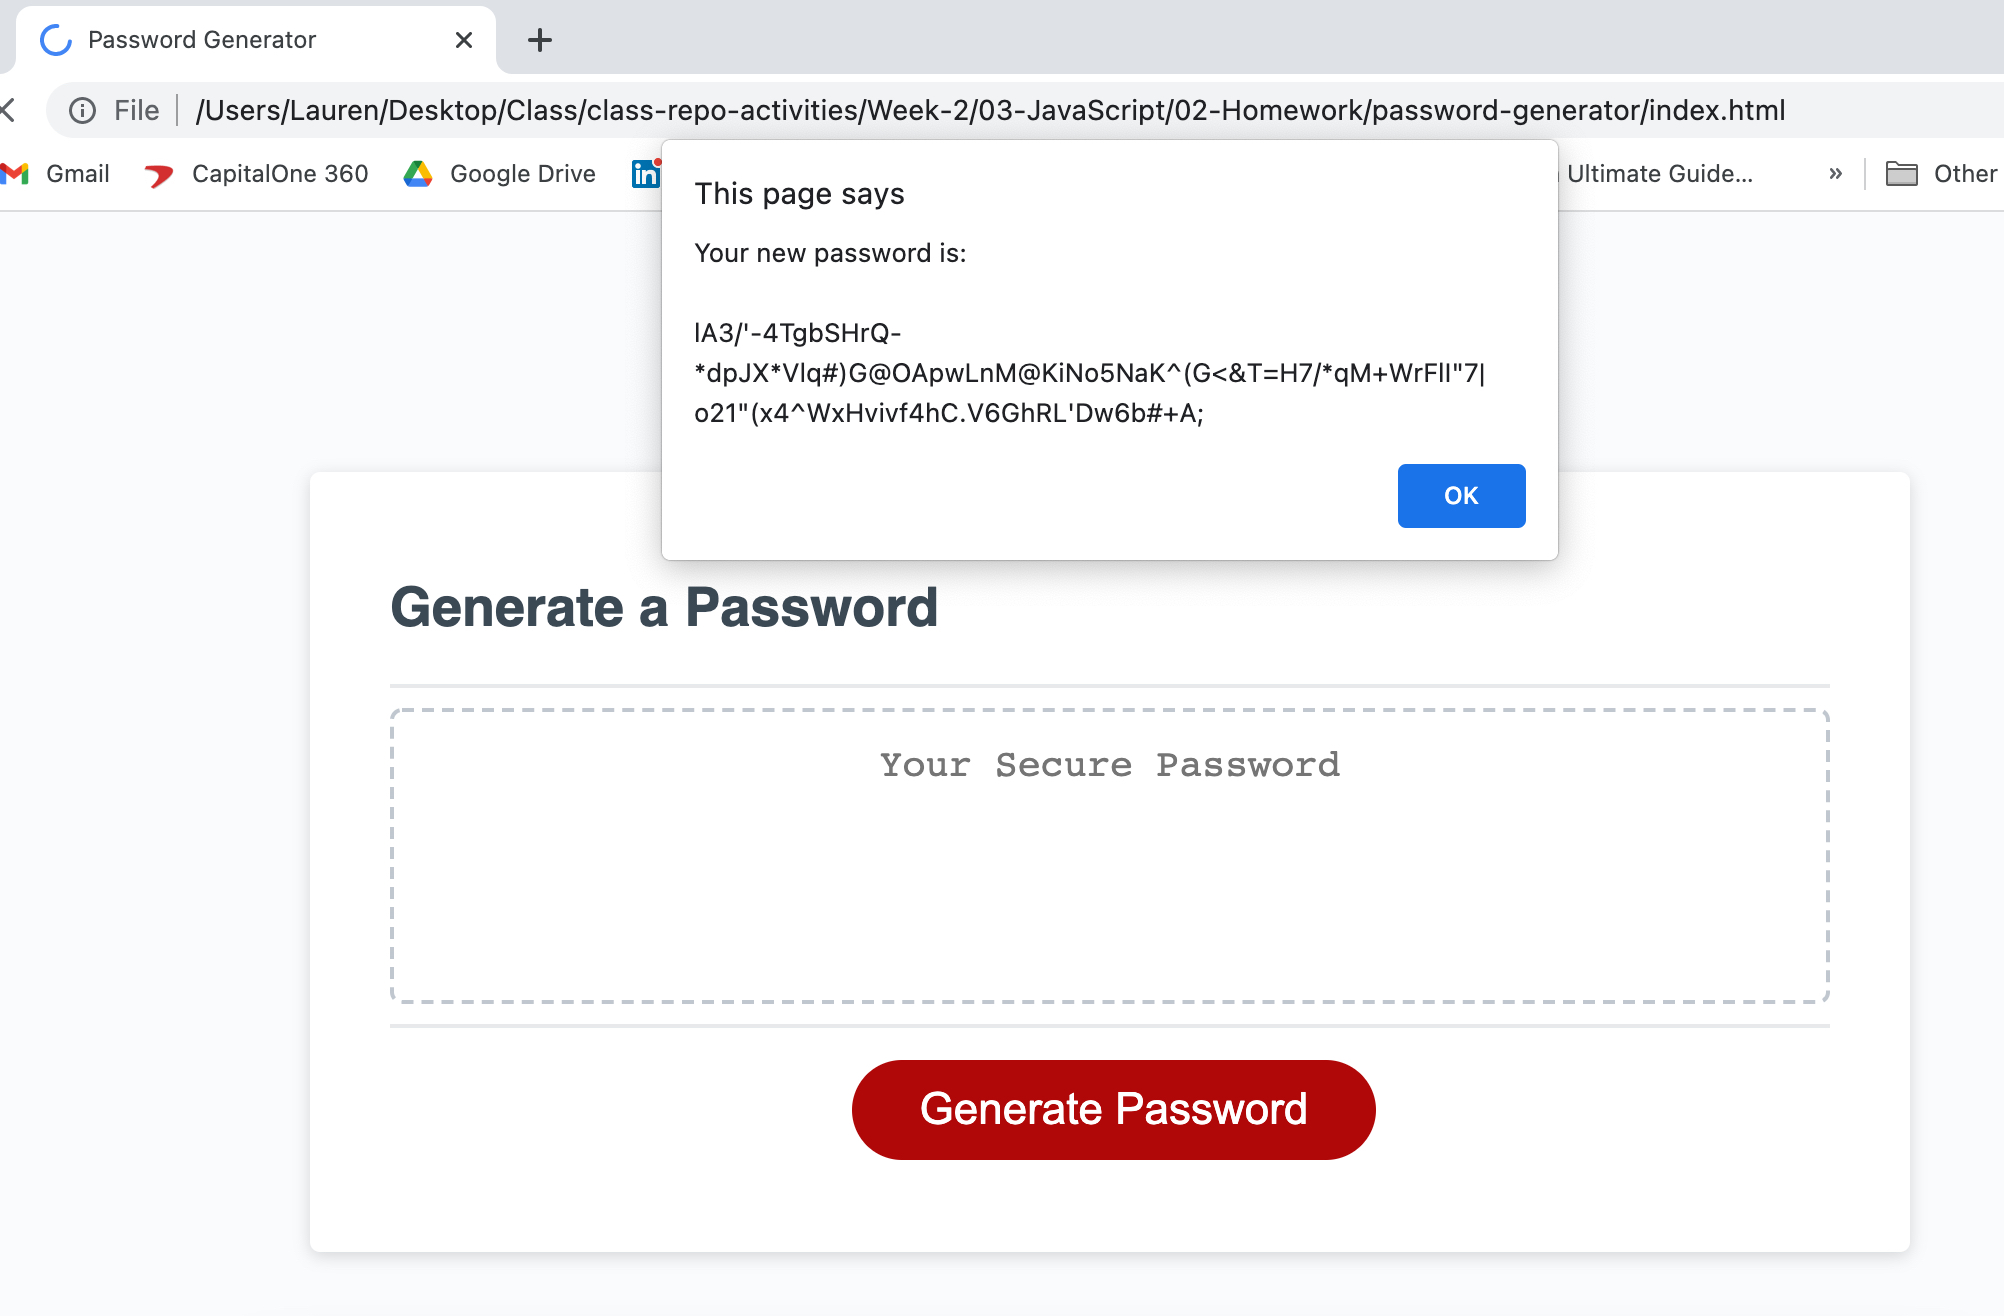
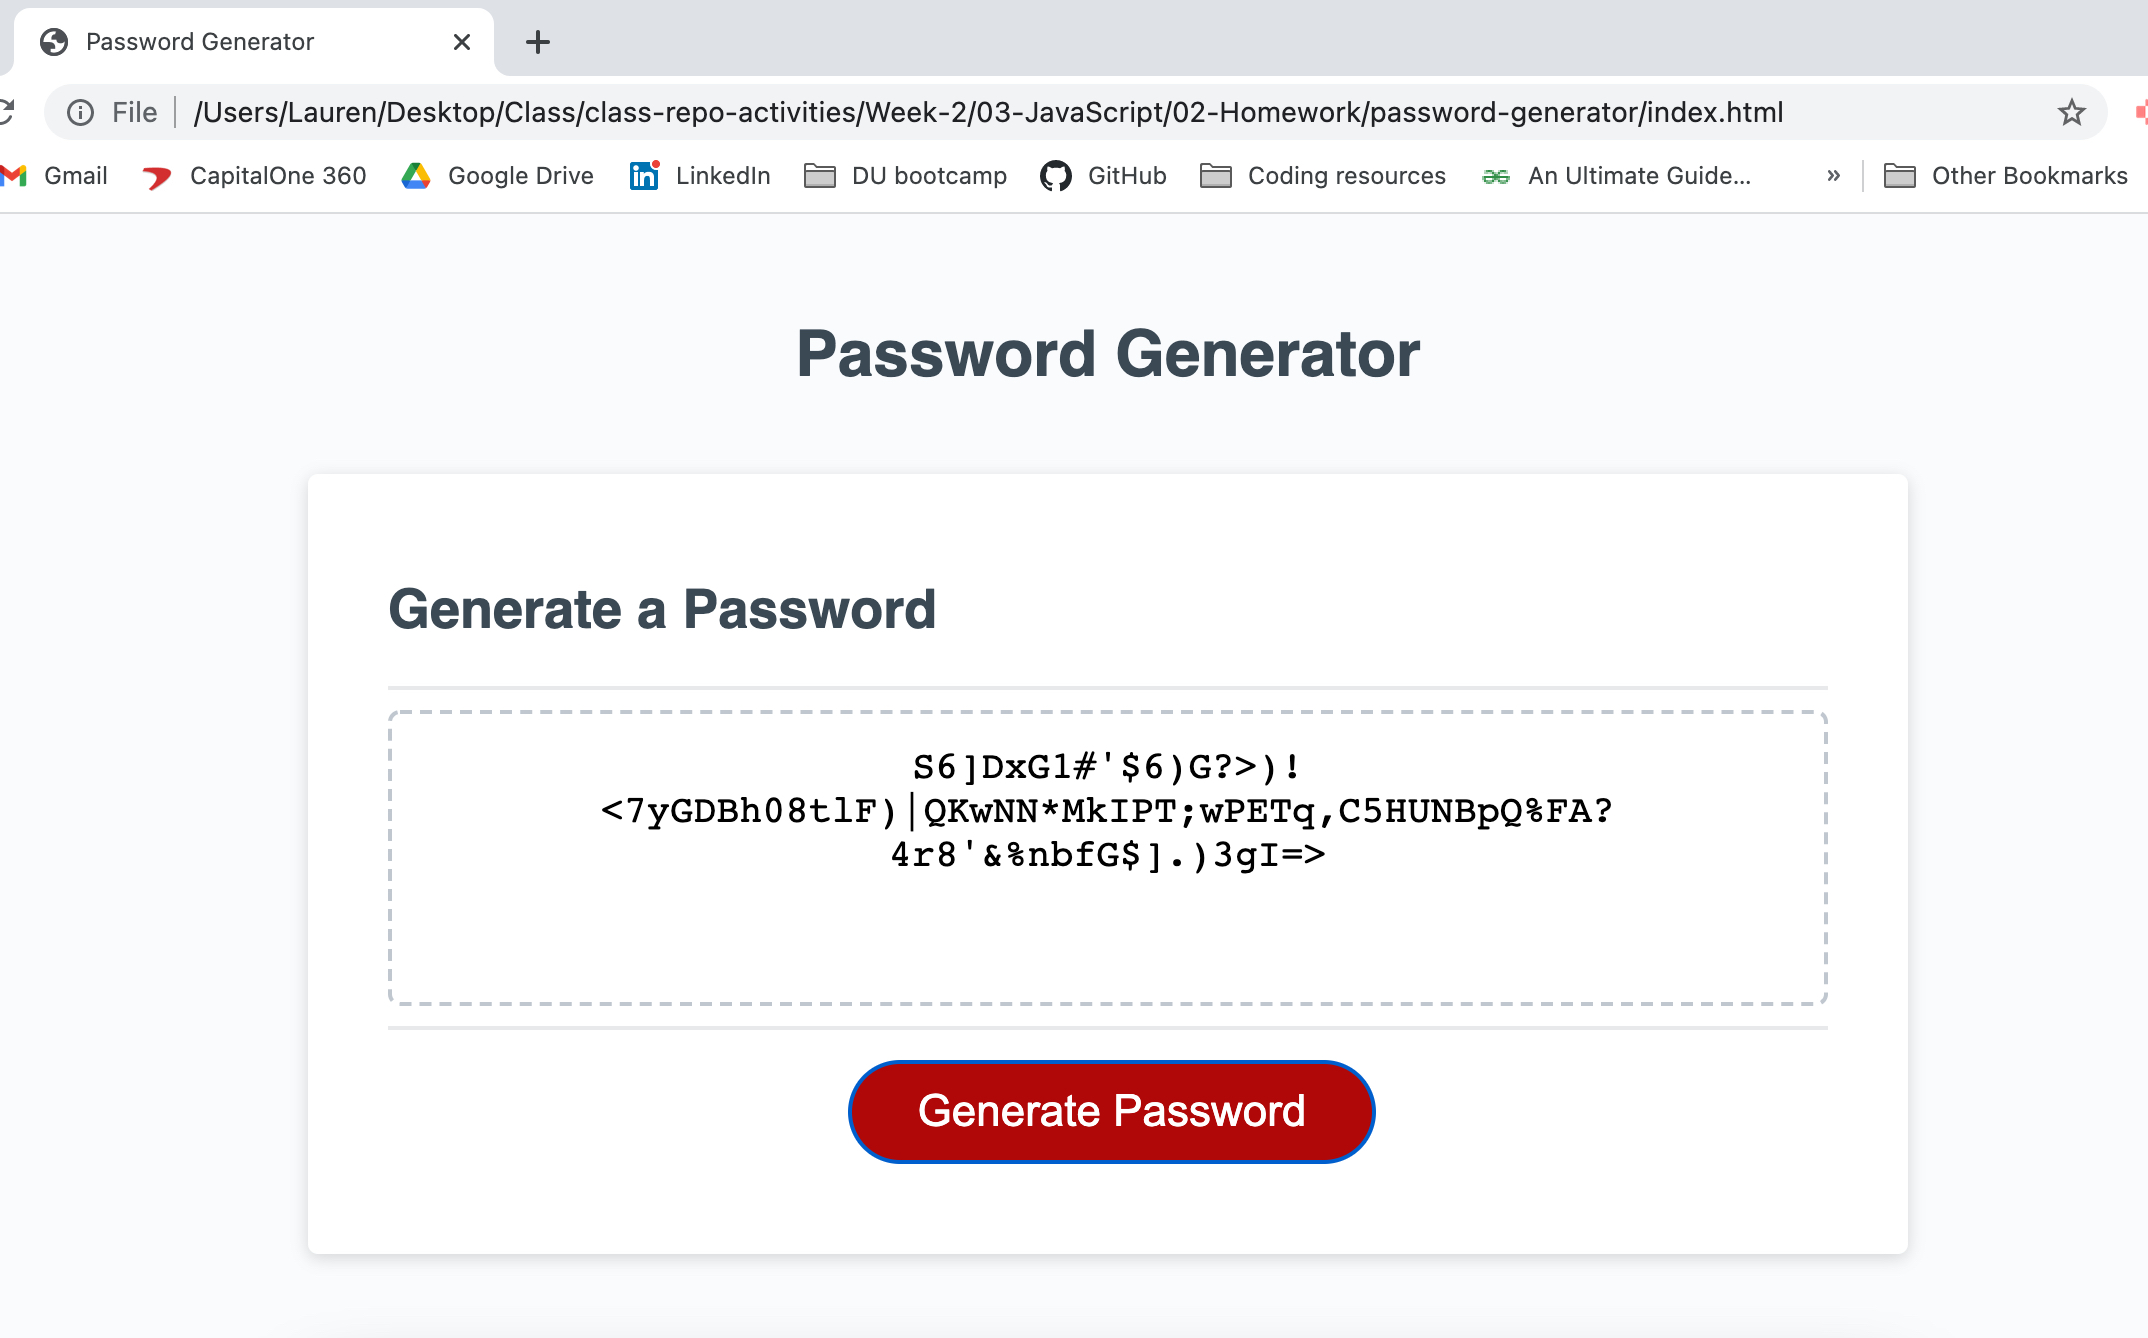
updating files to include JS edits (switching password generator to viewport instead of alert)

diff --git a/assets/script.js b/assets/script.js
@@ -9,11 +9,9 @@ function writePassword() {
   passwordText.value = password;
 }
 
-//User-generated values
-var pwLength;
-var pwChars;
+//**Homework coding begins below this line**
 
-//Established messages (string variables) for the program prompts/confirmations
+//Established messages (string variables) for the program prompts/confirmations to guide user to create password:
 var confirm1 =
   "Please include AT LEAST ONE of the following in your password: Lowercase letters, uppercase letters, numeric values, and/or special characters.";
 var selectChars = "These will be included in your password.";
@@ -23,14 +21,16 @@ var confirmNum = "Would you like to include numbers?";
 var confirmSpec =
   "Would you like to include special characters (such as !, #, %, &, etc.; does not include spaces)?";
 
-//Values confirming user selection for characters
+//Values confirming user selection for characters and password length
+var pwLength;
 var LC;
 var UC;
 var Num;
 var Spec;
+//This array will eventually combine the user character values to generate the password:
 var pwArray = [];
 
-//Possible character values to select (as an array)
+//Possible character values user can select (as arrays)
 var charLC = [
   "a",
   "b",
@@ -111,63 +111,81 @@ var charSpec = [
   "?",
   "@",
   "^",
+  "(",
+  ")",
+  "[",
+  "]",
   "|",
 ];
 
-//List of special characters: !"#$%&'()*+,-./:;<=>?@[\]^_`{|}~
+/*Logic, including function, for actually generating the password using the above variables and arrays, 
+AND resetting the password generator after a password has been produced:*/
 
-//Math.random = Completely random number generator
-//Math.floor = Establishes opportunity to set parameters for "random"
-//.length: Sets parameters based on length of variable given (here lowercase)
-
-while (true) {
-  pwLength = Number(
-    prompt("Please enter a password length from 8 to 128 characters:")
-  );
-  if (pwLength < 8 || pwLength > 128) {
-    alert("You must enter a valid number.");
-    continue;
-  } else {
-    alert("Your password will be " + pwLength + " characters long.");
-  }
+function generatePassword() {
+  //passwordArray defined locally to allow values to be re-established each time function is run
+  passwordArray = [];
   while (true) {
-    if (!confirm(confirm1)) {
-      continue;
-    }
-    LC = confirm(confirmLC);
-    if (LC) {
-      pwArray = pwArray.concat(charLC);
-      alert(selectChars);
-    }
-    UC = confirm(confirmUC);
-    if (UC) {
-      pwArray = pwArray.concat(charUC);
-      alert(selectChars);
-    }
-    Num = confirm(confirmNum);
-    if (Num) {
-      pwArray = pwArray.concat(charNum);
-      alert(selectChars);
-    }
-    Spec = confirm(confirmSpec);
-    if (Spec) {
-      pwArray = pwArray.concat(charSpec);
-      alert(selectChars);
-    }
-    if (!LC && !UC && !Num && !Spec) {
+    //Prompts for correct password length and accompanying error message if outside parameters
+    pwLength = Number(
+      prompt("Please enter a password length from 8 to 128 characters:")
+    );
+    if (pwLength < 8 || pwLength > 128) {
+      alert("You must enter a valid number.");
       continue;
     } else {
-      break;
+      alert("Your password will be " + pwLength + " characters long.");
     }
+    //Asks user to confirm that at least one character group must be included in password
+    while (true) {
+      if (!confirm(confirm1)) {
+        continue;
+      }
+      //Offers option for password to include lowercase letters (with confirmation alert if selected)
+      LC = confirm(confirmLC);
+      if (LC) {
+        pwArray = pwArray.concat(charLC);
+        alert(selectChars);
+      }
+      //Offers option for password to include uppercase letters (with confirmation alert if selected)
+      UC = confirm(confirmUC);
+      if (UC) {
+        pwArray = pwArray.concat(charUC);
+        alert(selectChars);
+      }
+      //Offers option for password to include numeric values (with confirmation alert if selected)
+      Num = confirm(confirmNum);
+      if (Num) {
+        pwArray = pwArray.concat(charNum);
+        alert(selectChars);
+      }
+      //Offers option for password to include special characters (with confirmation alert if selected)
+      Spec = confirm(confirmSpec);
+      if (Spec) {
+        pwArray = pwArray.concat(charSpec);
+        alert(selectChars);
+      }
+      //Return to character selection if user selects none of the above four options
+      if (!LC && !UC && !Num && !Spec) {
+        continue;
+      } else {
+        break;
+      }
+    }
+    //If password length is valid and at least one character is selected, password is generated using the following:
+    /*Notes on the following methods: 
+    Math.random = Completely random number generator
+    Math.floor = Establishes opportunity to set parameters for "random"*/
+    var password = [];
+    for (var i = 0; i < pwLength; i++) {
+      randomIndex = Math.floor(Math.random() * pwArray.length);
+      password.push(pwArray[randomIndex]);
+    }
+    //Values are concatenated without spacing in between and loop ends:
+    return password.join("");
   }
-  var password = [];
-  for (var i = 0; i < pwLength; i++) {
-    randomIndex = Math.floor(Math.random() * pwArray.length);
-    password.push(pwArray[randomIndex]);
-  }
-  alert("Your new password is: \n\n" + password.join(""));
-  break;
 }
+
+//**Homework coding ends here**
 
 // Add event listener to generate button
 generateBtn.addEventListener("click", writePassword);
